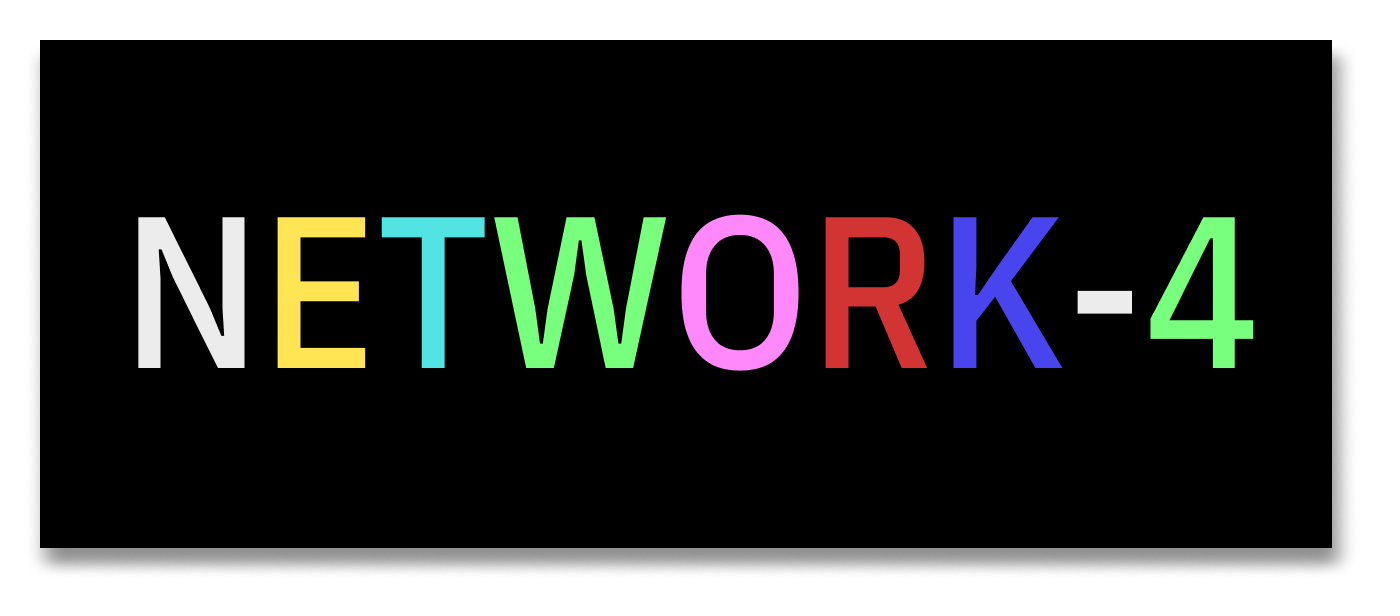
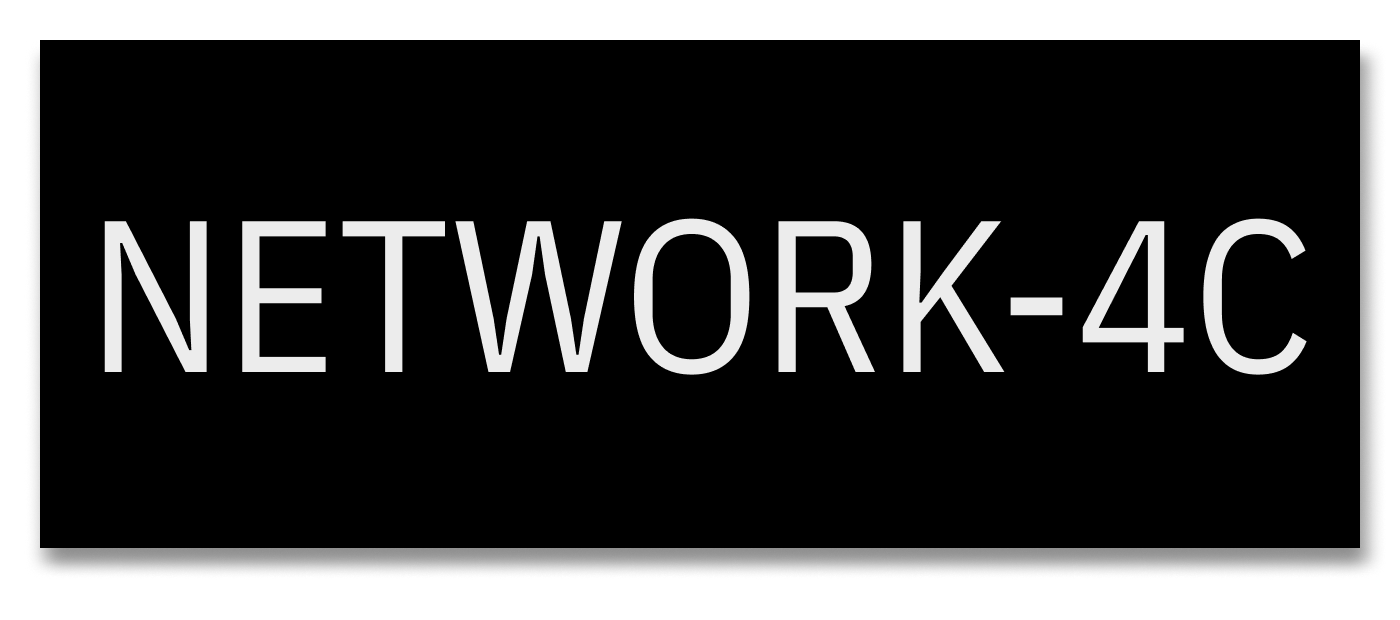
editing wedsite about

Changed region(s): [[0.0307, 0.0617, 0.9829, 0.9253]]

diff --git a/pages/about.html b/pages/about.html
@@ -51,95 +51,129 @@
             <section id="aboutContent">
                 
                 <div id="windowContainer">
+                    <div class="skPageHeader">
     
-                    
-                    <div id="whoIsShef" class="aboutWindow">
-    
-                        <div class="foreHead">
-    
-                            <label class="windowHeader" for="">About_Me.txt</label>
-    
-                        </div>
-    
-                        <div class="textBody">
-                            <p>
-                                I am a Computer Engineering student, Residential Advisor, and Research Assistant at Virginia Tech. In my spare, I work as a Project Manager at Sk while also doing freelance photography and web development. My background in IT was developed in high school and I started Sk as a passion project to explore my love for creativity and art while also building professional skills for project management and entrepreneurship.
-                            </p>
-                            
-                        </div>
-    
-                    </div>
-    
-                    <div id="shefsPassions" class="aboutWindow">
-    
-                        <div class="foreHead">
-    
-                            <label class="windowHeader" for="">My_Passions.txt</label>
-    
-                        </div>
-    
-                        <div class="textBody">
-                            <p>
-                                I am driven to work hard because of my love for meeting and collaborating with people from around the world as well as learning new skills and gaining practical experience. I am also passionate about contributing to the advancement of technology through machine learning application discovery and opensource development.
-    
-                            </p>
-                            
-                        </div>
-    
-                    </div>
-    
-                    <div id="personalAch" class="aboutWindow">
-    
-                        <div class="foreHead">
+                        <h3 class="projectSubHeader" id="topSubHeader">Founder</h3>
         
-                            <label class="windowHeader" for="">Personal_Achievements.txt</label>
+                        <h1 class="skProjectHeader">Sk</h1>
         
-                        </div>
+                        <h3 class="projectSubHeader" id="bottomSubHeader1">Est.2019</h3>
         
-                        <div class="textBody">
-        
-                            <p>
-                                While living in New York in I took the initiative to start the company Sk. A passion project of mine that has allowed me to follow my interest in art and content creation while also developing leadership, business, and communication skills. This company has given me the chance to see a community of unique creators and passionate individuals grow and develop through mini-projects, collaborations, and community interaction.
-                                <br><br>
-                                I would also say that this website is a personal accomplishment for me. This is the first website I’ve programed complete from scratch using vanilla javascript, CSS, and HTML. I felt like I learned a lot about front end development and project management and is a long term investment in myself because hopefully, someone like you might just happen to come and like what they see. 
-                                <br><br>
-                                You can find out more about my technical skills through my GitHub profile or message me for any inquires.
-        
-                            </p>
-                            
-                        </div>
+                        <img id="usFlag" src="../img/sk/usFlag.png" alt="The United State's Flag">
+                        <img id="saFlag" src="../img/sk/saFlag.png" alt="South African Flag">
         
                     </div>
     
-                    <div id="shefsCantactInfo" class="aboutWindow">
+                    <div class="skDescription">
     
-                        <div class="foreHead">
-    
-                            <label class="windowHeader" for="">Contact_Info.txt</label>
-    
-                        </div>
-    
-                        <div class="textBody">
-                            <p>
-                                I’m interested in gaining more creative and technical experience 
-                                through opportunities such as mentorships, internships, and or 
-                                collaborations. Feel free to contact me through my LINKEDIN or 
-                                EMAIL! You can also find out more about my more 
-                                technical projects on my GITHUB.
+                        <div id="skPgDescriptionWindow">
         
-                            </p>
-                            
-                            <ul id="contactIcons">
-    
-                                <a href="https://github.com/shef4"><img class="githubIcon" src="../img/iconLinks/githubIcon.png" alt=""></a>
-                                <a href="https://www.linkedin.com/in/sefunmi-shef-ashiru-164299111/"><img class="linkedInIcon" src="../img/iconLinks/linkedInIcon.png" alt=""></a>
-                                <a href="https://www.instagram.com/shef.ash/?hl=en"><img class="igIcon" src="../img/iconLinks/igIcon.png" alt=""></a>
-            
-                            </ul>
-                            
+                            <div class="foreHead">
+        
+                                <label class="windowHeader" for="">What is Sk.txt</label>
+        
+                            </div>
+        
+                            <div class="textBody">
+                                <p>
+                                    Sk is a creative collective started in New York City and Durban, South Africa. It is run by myself and a team of amazing creators from South Africa 
+                                    (Amy Aurther, Tristan Stellenburg, Wazana Moncho, Sanikwa and Kutloano). Our mission is to create a community that 
+                                    celebrates self-expression and creativity, through the distribution and creation of content.
+                                </p>    
+                            </div>
+        
                         </div>
+        
+                         
+                        
+                        <div  class="skLogoWindow">
+        
+                            <div class="foreHead">
+        
+                                <label class="windowHeader" for="">Screenshot_05.img</label>
+        
+                            </div>
+        
+                            <img class="skLogo"  src="../img/sk/skLogo.png" alt="Sk Logo">
+        
+                        </div>
+        
     
-                    </div>
+                        <div id="skPgHistoryWindow">
+        
+                            <div class="foreHead">
+        
+                                <label class="windowHeader" for="">History.txt</label>
+        
+                            </div>
+        
+                            <div class="textBody">
+                                <p>
+                                    Sk was started in April 2019, our first goal was to connect and scout like-minded creators to collaborate and work with. 
+                                    We originally started with 30 creators from all around the world. We then planned and organized a release campaign that 
+                                    air in November 2019. Since then Sk has successfully managed multiple projects and is steadily growing in reach. 
+                                    You can find out more about some of my contributions as a Project manager in the lower section.
+                                
+                                </p>    
+                            </div>
+        
+                        </div>
+        
+                        
+                        <div  class="skProfileWindow">
+        
+                            <div class="foreHead">
+        
+                                <label class="windowHeader" for="">Profile_Page.img</label>
+        
+                            </div>
+        
+                            <img class="skProfile"src="../img/sk/skIgProfile.jpg" alt="Sk Instagram page">
+        
+                        </div>
+        
+        
+                        <div id="skPgGoalWindow">
+        
+                            <div class="foreHead">
+        
+                                <label class="windowHeader" for="">Goal.txt</label>
+        
+                            </div>
+        
+                            <div class="textBody">
+                                <p>
+                                    We aim to provide our followers with artistic and inspirational content while also creating a platform for creators to 
+                                    gain exposure and connect with other creators from countries such as the United States, the United Kingdom,  South Africa,
+                                    and Spain. Our target market is a youth with an interest in art fashion and music. The advantage Sk has is that as new 
+                                    content is released on the platform it leads to greater exposure and potential followers. This will lead to more creators 
+                                    gaining interest in the page allowing for more unique content and collaborations         
+                                </p>    
+                            </div>
+        
+                        </div>
+                        
+        
+                        <div id="skPgWhatsNextWindow">
+        
+                            <div class="foreHead">
+        
+                                <label class="windowHeader" for="">What's_Next.txt</label>
+        
+                            </div>
+        
+                            <div class="textBody">
+                                <p>
+                                    We plan to expand our platform to more social media applications such as YouTube and Spotify as well as develop a brand 
+                                    website for articles, media content like playlist, videos, and e-commerce. 
+        
+                                </p>    
+                            </div>
+        
+                        </div>
+                        
+        
+                    </div>   
     
     
                 </div>

diff --git a/pages/Sk.html b/pages/Sk.html
@@ -49,132 +49,6 @@
                 </span>
         
             </nav> 
-            
-            
-                <div class="skPageHeader">
-    
-                    <h3 class="projectSubHeader" id="topSubHeader">Founder</h3>
-    
-                    <h1 class="skProjectHeader">Sk</h1>
-    
-                    <h3 class="projectSubHeader" id="bottomSubHeader1">Est.2019</h3>
-    
-                    <img id="usFlag" src="../img/sk/usFlag.png" alt="The United State's Flag">
-                    <img id="saFlag" src="../img/sk/saFlag.png" alt="South African Flag">
-    
-                </div>
-    
-    
-                <div class="skDescription">
-    
-                    <div id="skPgDescriptionWindow">
-    
-                        <div class="foreHead">
-    
-                            <label class="windowHeader" for="">What is Sk.txt</label>
-    
-                        </div>
-    
-                        <div class="textBody">
-                            <p>
-                                Sk is a creative collective started in New York City and Durban, South Africa. It is run by myself and a team of amazing creators from South Africa 
-                                (Amy Aurther, Tristan Stellenburg, Wazana Moncho, Sanikwa and Kutloano). Our mission is to create a community that 
-                                celebrates self-expression and creativity, through the distribution and creation of content.
-                            </p>    
-                        </div>
-    
-                    </div>
-    
-                     
-                    
-                    <div  class="skLogoWindow">
-    
-                        <div class="foreHead">
-    
-                            <label class="windowHeader" for="">Screenshot_05.img</label>
-    
-                        </div>
-    
-                        <img class="skLogo"  src="../img/sk/skLogo.png" alt="Sk Logo">
-    
-                    </div>
-    
-
-                    <div id="skPgHistoryWindow">
-    
-                        <div class="foreHead">
-    
-                            <label class="windowHeader" for="">History.txt</label>
-    
-                        </div>
-    
-                        <div class="textBody">
-                            <p>
-                                Sk was started in April 2019, our first goal was to connect and scout like-minded creators to collaborate and work with. 
-                                We originally started with 30 creators from all around the world. We then planned and organized a release campaign that 
-                                air in November 2019. Since then Sk has successfully managed multiple projects and is steadily growing in reach. 
-                                You can find out more about some of my contributions as a Project manager in the lower section.
-                            
-                            </p>    
-                        </div>
-    
-                    </div>
-    
-                    
-                    <div  class="skProfileWindow">
-    
-                        <div class="foreHead">
-    
-                            <label class="windowHeader" for="">Profile_Page.img</label>
-    
-                        </div>
-    
-                        <img class="skProfile"src="../img/sk/skIgProfile.jpg" alt="Sk Instagram page">
-    
-                    </div>
-    
-    
-                    <div id="skPgGoalWindow">
-    
-                        <div class="foreHead">
-    
-                            <label class="windowHeader" for="">Goal.txt</label>
-    
-                        </div>
-    
-                        <div class="textBody">
-                            <p>
-                                We aim to provide our followers with artistic and inspirational content while also creating a platform for creators to 
-                                gain exposure and connect with other creators from countries such as the United States, the United Kingdom,  South Africa,
-                                and Spain. Our target market is a youth with an interest in art fashion and music. The advantage Sk has is that as new 
-                                content is released on the platform it leads to greater exposure and potential followers. This will lead to more creators 
-                                gaining interest in the page allowing for more unique content and collaborations         
-                            </p>    
-                        </div>
-    
-                    </div>
-                    
-    
-                    <div id="skPgWhatsNextWindow">
-    
-                        <div class="foreHead">
-    
-                            <label class="windowHeader" for="">What's_Next.txt</label>
-    
-                        </div>
-    
-                        <div class="textBody">
-                            <p>
-                                We plan to expand our platform to more social media applications such as YouTube and Spotify as well as develop a brand 
-                                website for articles, media content like playlist, videos, and e-commerce. 
-    
-                            </p>    
-                        </div>
-    
-                    </div>
-                    
-    
-                </div>
                 
                 <div class="skProjects">
     

diff --git a/index.html b/index.html
@@ -75,7 +75,7 @@
 
             <div  id="thisIs">
 
-                <h1 id="websiteDesc">A collection of Sk's creative works and projects to date.</h1>
+                <h1 id="websiteDesc">A collection of Sk's creative works and Collaberations to date.</h1>
 
             </div>
 

diff --git a/README.md b/README.md
@@ -1,6 +1,6 @@
-# NETWORK-4
-Hi!
+# NETWORK-4C
+<!-- Hi! -->
 
-This project is a personal website I developed call Channel4.  I developed this website using mobile first desgin practises and tools such as Figma and Trello. The websiteemade using HTML, CSS and a bit of Javascript. 
+<!-- This project is a personal website I developed call Channel4.  I developed this website using mobile first desgin practises and tools such as Figma and Trello. The websiteemade using HTML, CSS and a bit of Javascript. 
 
-I created this website as a summer pasision project during the mids of quarentine. To see what I code create if I could design and develop a website. I choose a person website because I thought it would be a good chance to exp[ress my self and my interest and I could add more to it over the years. 
+I created this website as a summer pasision project during the mids of quarentine. To see what I code create if I could design and develop a website. I choose a person website because I thought it would be a good chance to exp[ress my self and my interest and I could add more to it over the years.  -->
